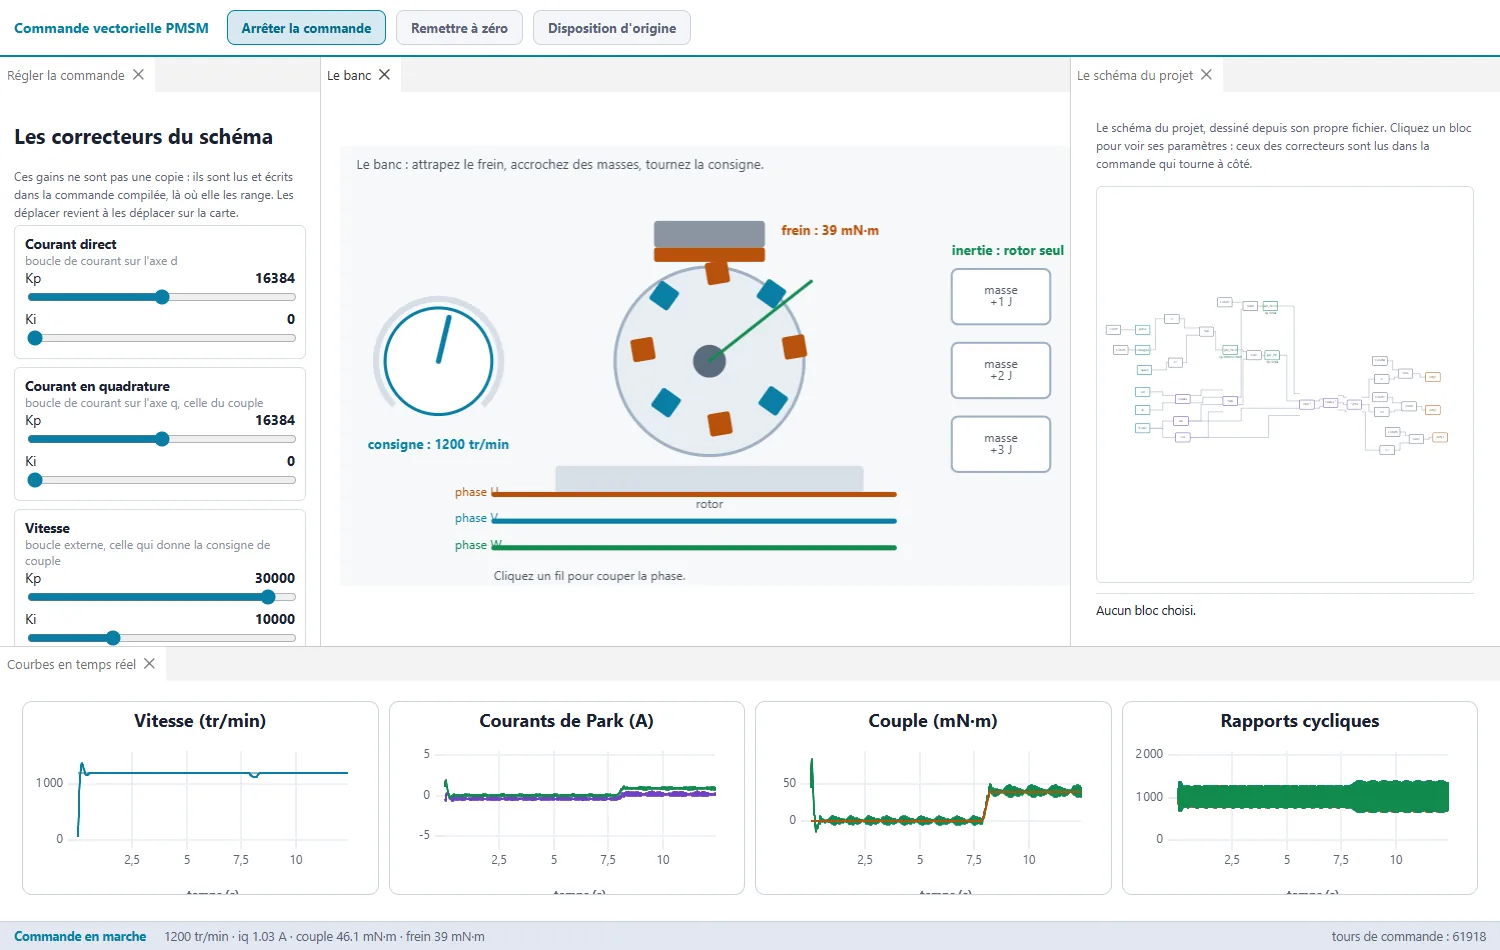
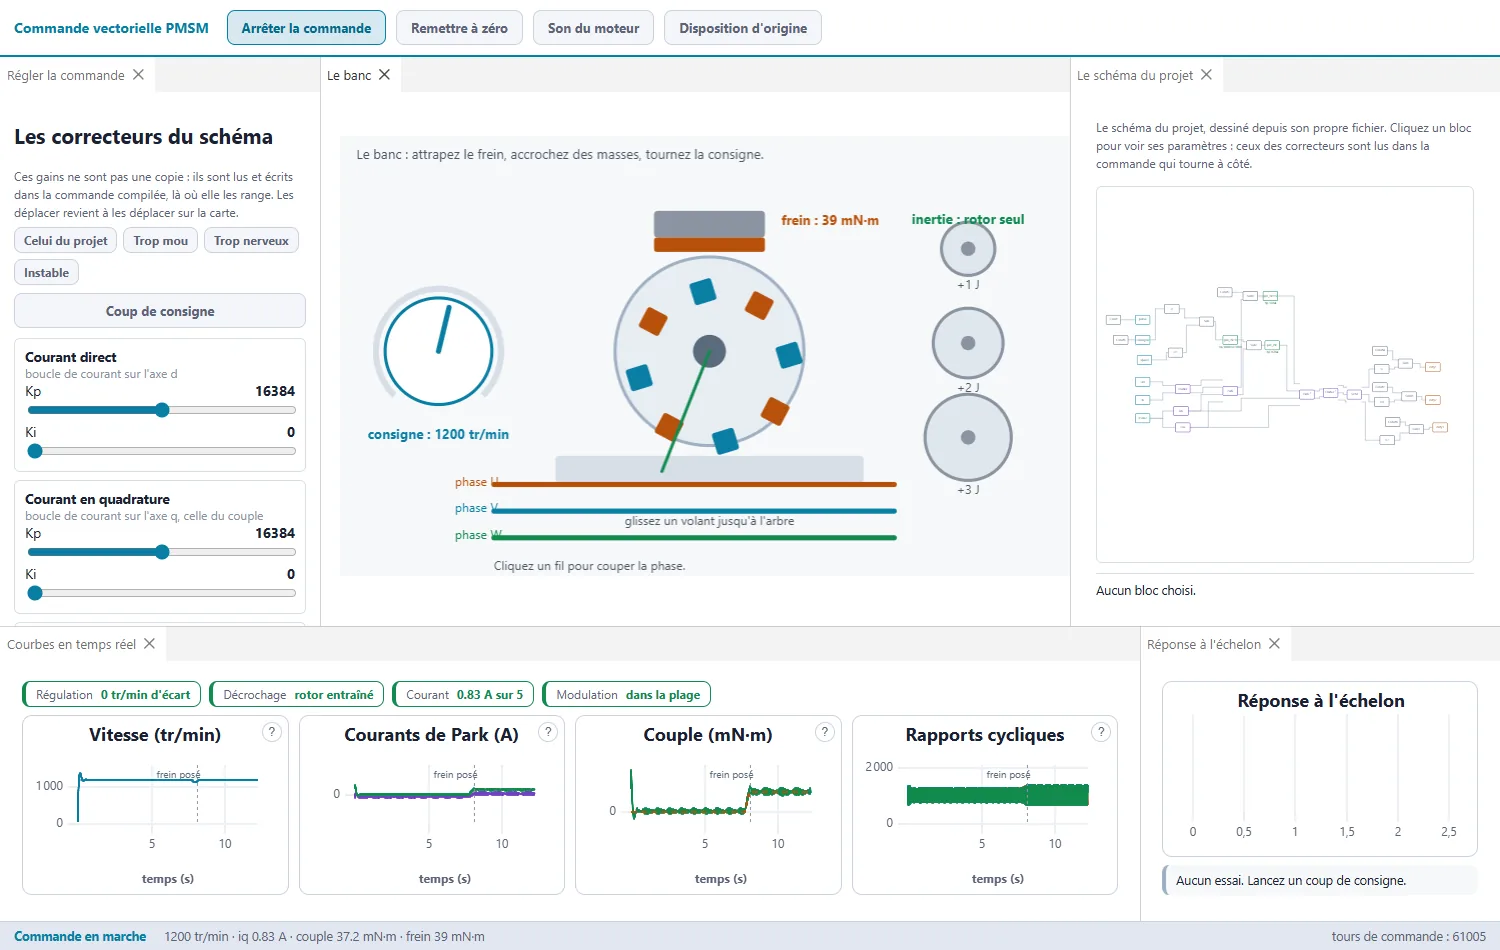
L'atelier du moteur se lit comme un moniteur de patient
Le jargon reste sur les courbes, parce que celui qui travaille dans ce métier
le connaît : l'explication en français vit sous un point d'interrogation. Ce
qui change, c'est que les courbes parlent. Un bandeau d'état vital au-dessus,
quatre signes qui passent à l'orange puis au rouge et qui battent, un repère
vertical à chaque geste, et la vitesse qui tombe à plat quand la commande
décroche.

Le coup de consigne rend un verdict mesuré, dépassement et temps de
stabilisation, avec l'essai précédent gardé en gris pour comparer. Quatre
réglages tout faits remplacent la saisie d'entiers. Et les volants d'inertie
se glissent sur l'arbre au lieu de s'allumer au clic.

diff --git a/src/projets/commande-moteur-pmsm/fiche.ts b/src/projets/commande-moteur-pmsm/fiche.ts
@@ -1,4 +1,5 @@
 import type { Projet } from "../types";
+import alarme from "./alarme.webp";
 import frein from "./frein.webp";
 import regulation from "./regulation.webp";
 
@@ -91,7 +92,14 @@ SocketCanMock::CanFrame frame;   // consigne de vitesse ou de couple`,
       src: regulation,
       alt: "La commande du projet régule la vitesse, et le schéma-blocs est dessiné depuis son propre fichier",
       legende:
-        "À gauche, les trois correcteurs du schéma : leurs gains ne sont pas recopiés, ils sont lus et écrits dans la commande compilée, là où elle les range. Au centre, le banc qu'on manipule. À droite, le schéma-blocs du projet, dessiné depuis le fichier pmsm_target.dgm lui-même, ses trente-six blocs et ses quarante-huit liaisons.",
+        "Le coup de consigne, celui qu'on fait sur un vrai banc : on demande brutalement une autre vitesse et l'atelier juge la réponse. Ici, dépassement de neuf pour cent, stabilisé en trente-cinq centièmes de seconde, erreur résiduelle d'un tour par minute. À gauche, les trois correcteurs du schéma, dont les gains sont lus et écrits dans la commande compilée. Au-dessus des courbes, l'état vital de l'entraînement.",
+      format: "ecran",
+    },
+    {
+      src: alarme,
+      alt: "Le moniteur passe au rouge quand la commande décroche : la vitesse tombe à plat",
+      legende:
+        "Le réglage « Instable », choisi d'un clic. L'écart de régulation passe à mille cent quatre-vingt-deux tours par minute, le courant arrive en butée à cinq ampères, la modulation sature, et la vitesse tombe à plat comme sur un moniteur d'hôpital. Derrière, en gris, la réponse de l'essai précédent, celle du réglage du projet, reste affichée pour la comparaison.",
       format: "ecran",
     },
     {
